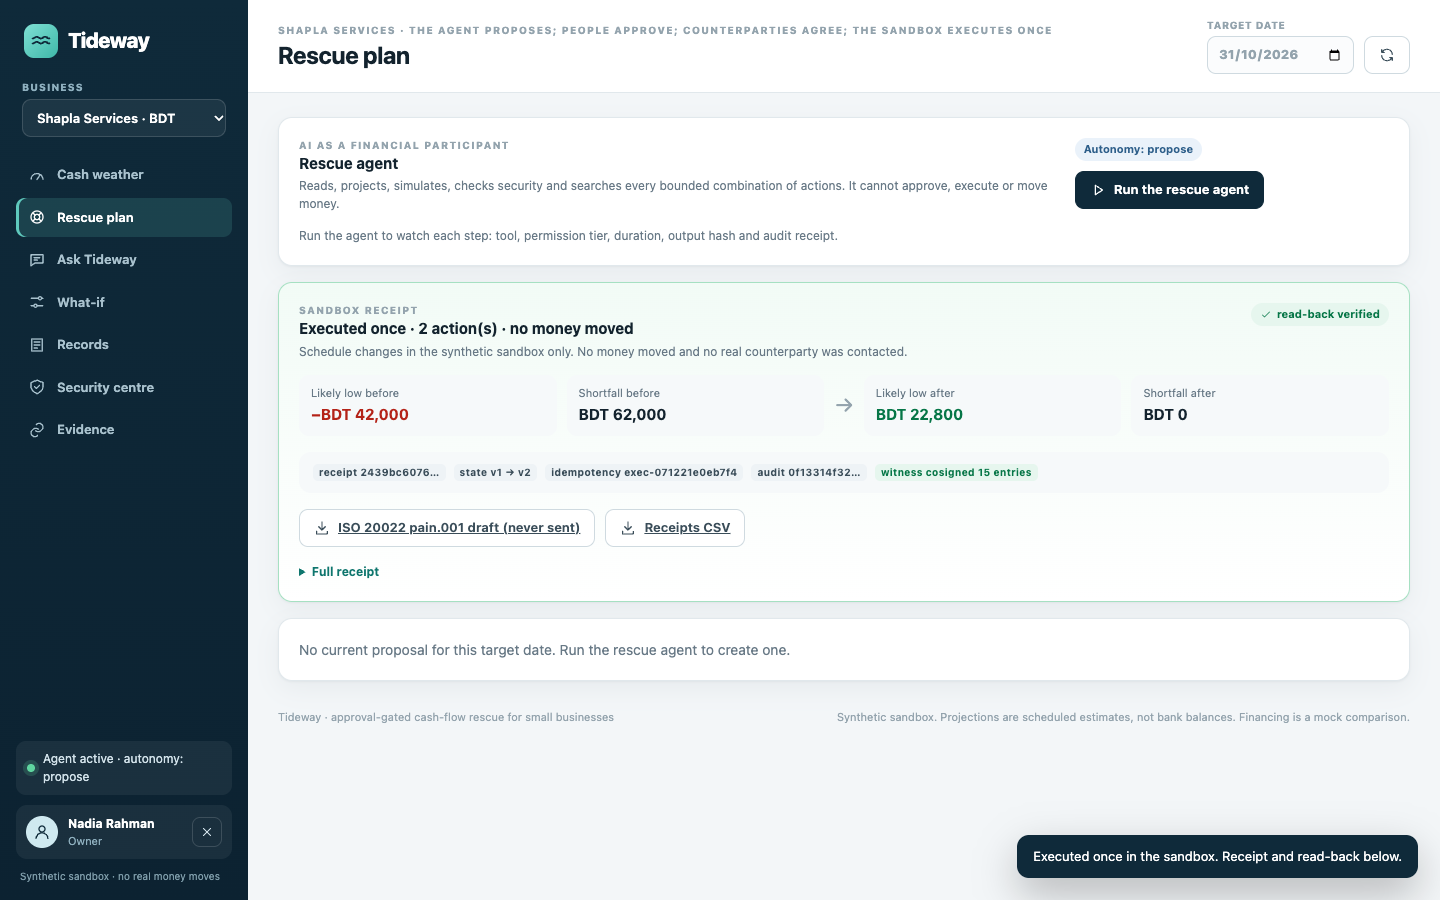
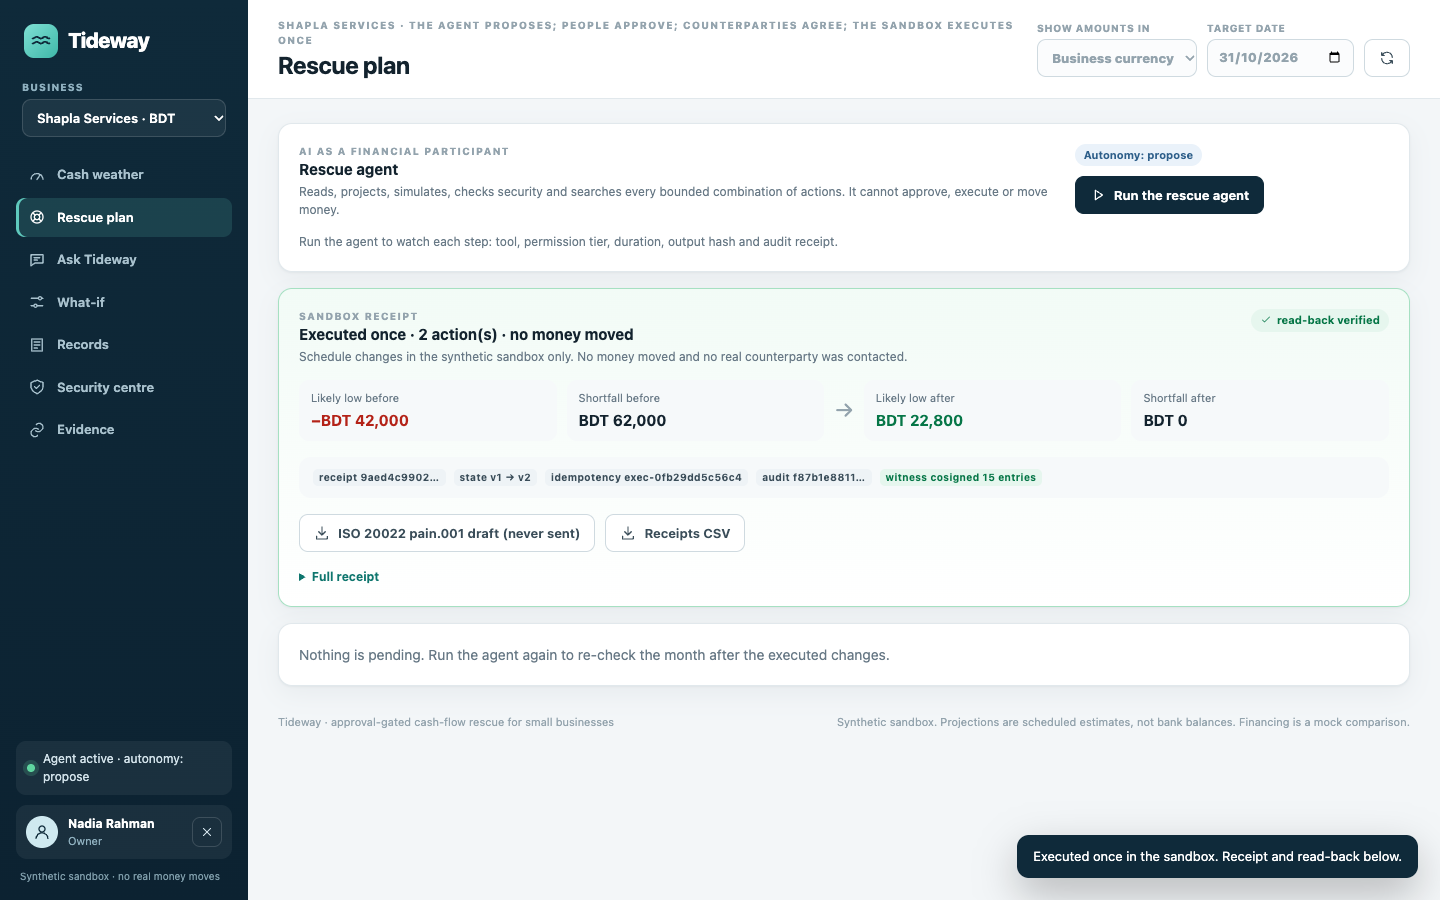
Add display-currency switcher with illustrative fixed rates

diff --git a/web/app.js b/web/app.js
@@ -6,7 +6,7 @@ const state = {
   config: null, operator: null, businessId: "", targetDate: "", view: "overview",
   dashboard: null, run: null, receipt: null, chat: [], audit: null, selftest: null, drill: null,
   whatif: {delays: {}, expense: "", expenseDate: "", drop: "", result: null}, recordFilter: "all", recordQuery: "",
-  busy: false, approving: null
+  busy: false, approving: null, displayCurrency: ""
 };
 const VIEWS = {
   overview: ["Cash weather", "Where cash is heading, how likely a shortfall is, and why"],
@@ -23,8 +23,15 @@ const icon = (name) => `<svg class="icon" aria-hidden="true"><use href="#i-${nam
 const isNum = (value) => typeof value === "number" && Number.isFinite(value);
 const currency = () => state.dashboard?.business?.currency || "BDT";
 
+// Illustrative fixed rates (units per 1 USD) for display only. Not live FX; every
+// calculation, approval and mandate stays in the business's own currency.
+const FX_PER_USD = {USD: 1, BDT: 122, CNY: 7.1, HKD: 7.8, SGD: 1.29, EUR: 0.86, GBP: 0.75, INR: 88, MYR: 4.2};
 function money(minor, code = currency(), opts = {}) {
   if (!isNum(minor)) return "—";
+  const show = state.displayCurrency;
+  if (!opts.native && show && show !== code && FX_PER_USD[show] && FX_PER_USD[code]) {
+    return "≈ " + money(Math.round(minor / FX_PER_USD[code] * FX_PER_USD[show]), show, {...opts, native: true});
+  }
   const units = minor / 100;
   const decimals = opts.decimals ?? (Number.isInteger(units) ? 0 : 2);
   const text = Math.abs(units).toLocaleString("en-US", {minimumFractionDigits: decimals, maximumFractionDigits: decimals});
@@ -126,6 +133,7 @@ async function startShell() {
   const businesses = state.config.businesses;
   if (!businesses.some((item) => item.business_id === state.businessId)) state.businessId = businesses[0]?.business_id || "";
   $("#business-select").innerHTML = businesses.map((item) => `<option value="${esc(item.business_id)}" ${item.business_id === state.businessId ? "selected" : ""}>${esc(item.name)} · ${esc(item.currency)}</option>`).join("");
+  $("#display-currency").innerHTML = `<option value="">Business currency</option>` + Object.keys(FX_PER_USD).map((code) => `<option value="${code}" ${state.displayCurrency === code ? "selected" : ""}>${code}</option>`).join("");
   await loadDashboard(true);
 }
 
@@ -175,6 +183,7 @@ function render() {
   badge.textContent = (state.dashboard?.mandates || []).length ? "mandate" : "plan";
   const renderers = {overview: renderOverview, rescue: renderRescue, assistant: renderAssistant, whatif: renderWhatIf,
     records: renderRecords, security: renderSecurity, evidence: renderEvidence};
+  $("#fx-note").hidden = !state.displayCurrency || state.displayCurrency === currency();
   $("#view").innerHTML = state.dashboard ? (renderers[state.view] || renderOverview)() : `<div class="loading">Loading…</div>`;
   if (state.view === "assistant") { const log = $("#chat-log"); if (log) log.scrollTop = log.scrollHeight; }
 }
@@ -566,8 +575,9 @@ function openApprove(planId, bundleId) {
   const bundle = plan?.bundles.find((item) => item.bundle_id === bundleId);
   if (!bundle) return toast("That proposal changed. Run the agent again.");
   state.approving = {planId, bundleId, bundle, opened: Date.now()};
-  const lines = bundle.actions.map((action) => `<div class="line"><span>${esc(action.counterparty)} · ${action.type === "supplier_deferral" ? `move ${money(action.amount_minor)} to ${esc(day(action.to_date))}` : `${esc(action.discount_bps / 100)}% off, pay ${money(action.amount_minor)} by ${esc(day(action.to_date))}`}</span><b>${money(action.economic_cost_minor)}</b></div>`);
-  lines.push(`<div class="line"><span>Total exposure</span><b>${money(bundle.exposure_minor)}</b></div>`);
+  const nat = (minor) => money(minor, currency(), {native: true});
+  const lines = bundle.actions.map((action) => `<div class="line"><span>${esc(action.counterparty)} · ${action.type === "supplier_deferral" ? `move ${nat(action.amount_minor)} to ${esc(day(action.to_date))}` : `${esc(action.discount_bps / 100)}% off, pay ${nat(action.amount_minor)} by ${esc(day(action.to_date))}`}</span><b>${nat(action.economic_cost_minor)}</b></div>`);
+  lines.push(`<div class="line"><span>Total exposure</span><b>${nat(bundle.exposure_minor)}</b></div>`);
   lines.push(`<div class="line"><span>Simulated futures still short after</span><b>${esc(bundle.futures_short_of_20_after ?? "—")} of 20</b></div>`);
   $("#approve-summary").innerHTML = lines.join("") + `<p class="small muted">You approve these exact terms. Any change to the records, policy, payee, amount or dates voids this approval before execution. ${bundle.dual_approval_required ? "This exceeds the dual-approval threshold: a second person, including the owner, must approve too." : ""}</p>`;
   $("#confirm-amount-label").hidden = !bundle.dual_approval_required;
@@ -775,6 +785,7 @@ document.addEventListener("change", async (event) => {
   try {
     if (target.id === "business-select") { state.businessId = target.value; state.run = null; state.receipt = null; state.chat = []; state.selftest = null; state.drill = null; state.whatif = {delays: {}, expense: "", expenseDate: "", drop: "", result: null}; await act("Business", () => loadDashboard(true)); }
     else if (target.id === "target-date") { if (!target.value) return; state.targetDate = target.value; state.run = null; await act("Date", () => loadDashboard()); }
+    else if (target.id === "display-currency") { state.displayCurrency = target.value; render(); }
     else if (target.id === "record-filter") { state.recordFilter = target.value; render(); }
     else if (target.id === "whatif-drop") { state.whatif.drop = target.value; }
     else if (target.id === "whatif-date") { state.whatif.expenseDate = target.value; }

diff --git a/web/index.html b/web/index.html
@@ -73,10 +73,12 @@
       <header class="topbar">
         <div class="title-block"><span class="eyebrow" id="eyebrow">FINTECHATHON 2026 · TOPIC E</span><h1 id="page-title">Cash weather</h1></div>
         <div class="topbar-controls">
+          <label class="control-field"><span>Show amounts in</span><select id="display-currency" aria-label="Display currency"></select></label>
           <label class="control-field"><span>Target date</span><input id="target-date" type="date" aria-label="Target date"></label>
           <button class="button ghost" data-action="refresh" title="Reload"><svg class="icon"><use href="#i-refresh"/></svg></button>
         </div>
       </header>
+      <div id="fx-note" class="error-banner fx-note" hidden>Amounts marked ≈ are converted for display with illustrative fixed rates, not live exchange rates. Every calculation, approval and mandate stays in the business's own currency.</div>
       <div id="app-error" class="error-banner" role="alert" hidden></div>
       <div id="view" class="view" aria-live="polite"><div class="loading">Loading…</div></div>
       <footer class="footer"><span>Tideway · approval-gated cash-flow rescue for small businesses</span><span>Synthetic sandbox. Projections are scheduled estimates, not bank balances. Financing is a mock comparison.</span></footer>

diff --git a/web/styles.css b/web/styles.css
@@ -346,3 +346,5 @@ body.busy .button { pointer-events: none; }
 .search { min-width: 240px; }
 ul { margin: 6px 0 0; padding-left: 18px; }
 li + li { margin-top: 4px; }
+
+.fx-note { color: var(--blue); border-color: #c9dcee; background: var(--blue-soft); }
